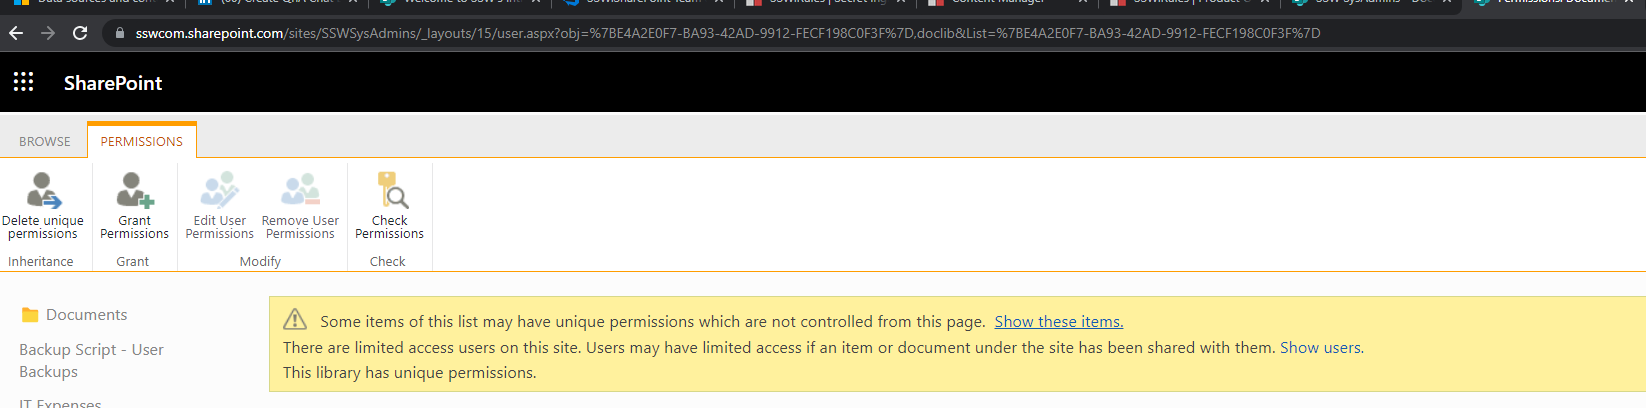
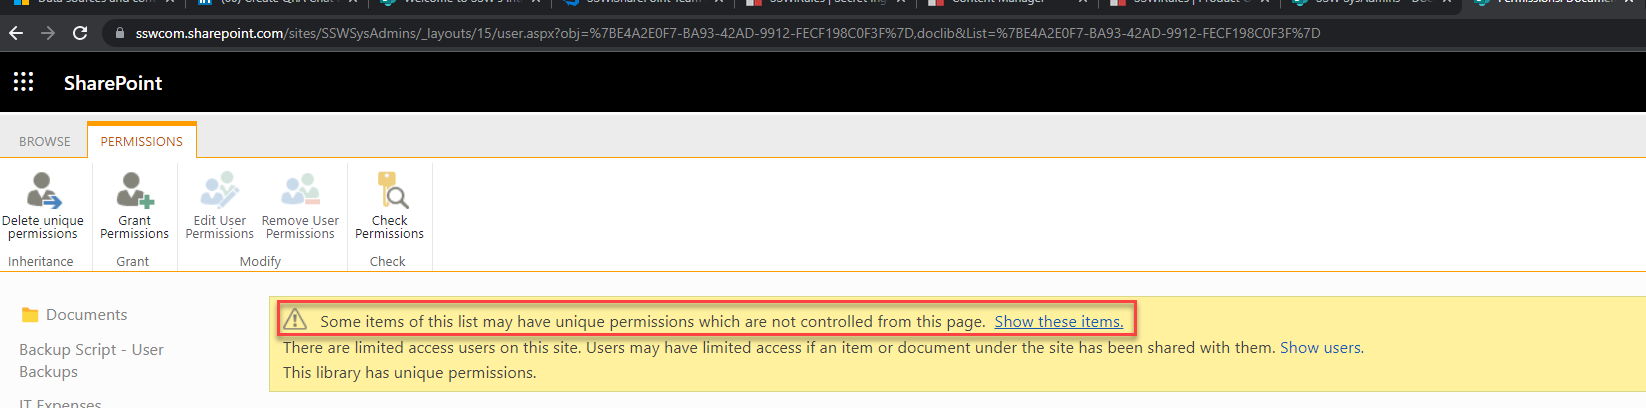
Update Rule “change-link-sharing-default-behaviour/rule” (#2463)
* Update Rule “change-link-sharing-default-behaviour/rule”

* Update Rule “change-link-sharing-default-behaviour/rule”

* Update Rule “change-link-sharing-default-behaviour/rule”

Changed region(s): [[0.1549, 0.7353, 0.7126, 0.8529]]

diff --git a/rules/change-link-sharing-default-behaviour/rule.md b/rules/change-link-sharing-default-behaviour/rule.md
@@ -12,30 +12,50 @@ guid: 086a184c-b63f-4726-9eb7-bfd6fef3432a
 ---
 If you are checking your sites permissions regularly you will probably notice a lot of unique permissions being applied.
 
+
+
 ![Figure: Some items may have unique permissions](uniquepermissions.png)
+
+
 
 The default "Copy Link" setting in SharePoint is usually set to "People from your organization can view this document".  This creates a unique sharing link each time it is used, giving people access to the file even if they didn't already.
 
 Consequence in SharePoint is that unique permissions are applied to the individual items breaking permission inheritance.  Links should instead be created with the "People with existing access" setting.
 
+
+
 <!--endintro-->
 
+
+
 To fix the issue you need to change the default sharing method.  There are 2 ways to do this - manually via the GUI or programmatically via PNP.PowerShell.
+
+
 
 ## Method 1 - Manually via SharePoint Admin GUI
 
 1. In the SharePoint Admin site select the SharePoint site and click Sharing
 
    ![Figure: Select Sharing](defaultsharinglinktype1.png)
+
+
 2. Untick same as organization-level setting | Select People with existing access | Click Save
 
    ![Figure: Select people with existing access](defaultsharinglinktype2.png)
 
+
+
 3. Repeat for each site
+
+
 
 ## Method 2 - Programmatically via PNP.PowerShell
 
+
+
 1. Run the following script to change this default for all sites associated to your SharePoint Hub-Site - This could be extended to include all sites in your tenant if required.
+
+
 
 ```
 #Variables
@@ -43,7 +63,7 @@ $AdminCenterURL = "https://sswcom-northwind.sharepoint.com"
 $HubSiteURL = "https://sswcom.northwind.com"
 
  
-#Connect to Pnp Online
+#Connect to PnP Online
 Connect-PnPOnline -Url $AdminCenterURL -Interactive
  
 #Get the children of the main HubSite
